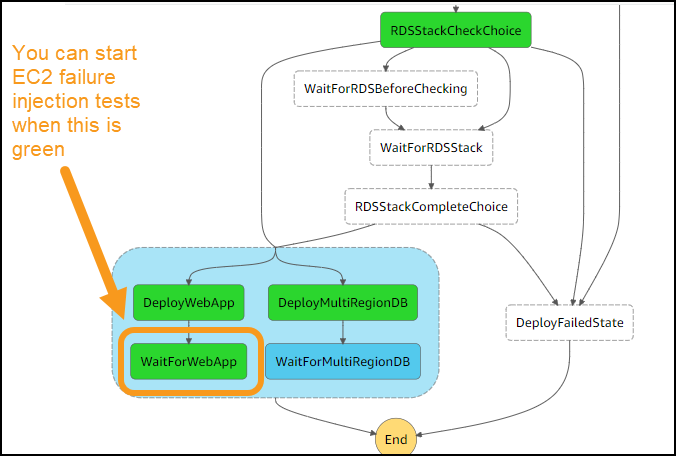
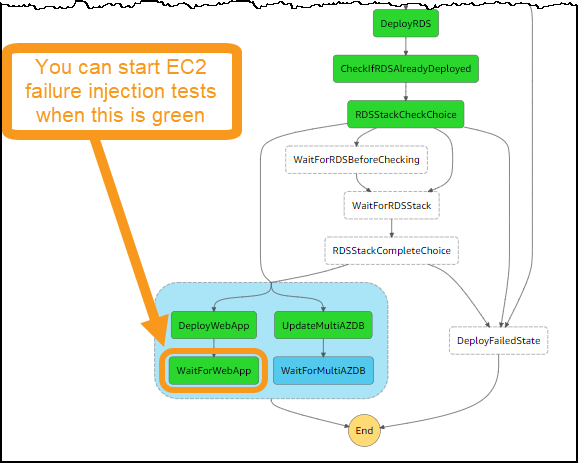
Rel300 defer multi-AZ

diff --git a/Reliability/300_Testing_for_Resiliency_of_EC2_RDS_and_S3/Code/Python/MultiAZDBLambda/update_multi_az_lambda.py b/Reliability/300_Testing_for_Resiliency_of_EC2_RDS_and_S3/Code/Python/MultiAZDBLambda/update_multi_az_lambda.py
@@ -35,7 +35,7 @@ stackname = 'MySQLforResiliencyTesting'
 
 
 def init_logging():
-    # Setup loggin because debugging with print can get ugly.
+    # Setup logging
     logger = logging.getLogger()
     logger.setLevel(logging.DEBUG)
     logging.getLogger("boto3").setLevel(logging.WARNING)
@@ -104,8 +104,8 @@ def update_rds(event):
     # Prepare the stack parameters
     rds_parameters = []
 
-    # We are no setting DBMultiRegion to update the stack
-    rds_parameters.append({'ParameterKey': 'DBMultiRegion', 'ParameterValue': "true"})
+    # We are now setting DBMultiAZ = "true" to update the stack
+    rds_parameters.append({'ParameterKey': 'DBMultiAZ', 'ParameterValue': "true"})
 
     # Every other parameter will use its previous value
     rds_parameters.append({'ParameterKey': 'DBSubnetIds', 'UsePreviousValue': True})
@@ -161,7 +161,7 @@ def wait_for_stack_complete(client, stack_name):
     if status_complete(status):
         return stack
     else:
-        logger.error ("Cannot update RDS stack to multi-region because status is: " + status)
+        logger.error ("Cannot update RDS stack to multi-AZ because status is: " + status)
         sys.exit(1)
 
 
@@ -169,11 +169,11 @@ def status_complete(status):
     return status == 'UPDATE_COMPLETE' or status == 'CREATE_COMPLETE'
 
 # This function checks the CloudFormation Parameter to determine if 
-# single or multi region RDS has been deployed.
+# single or multi AZ RDS has been deployed.
 # It may be more precise to check RDS itself, but this saves the round-trip
-def is_singleregion(region, stack_name):
+def is_single_az(region, stack_name):
     # Create CloudFormation client
-    logger.debug("Running function is_singleregion in region " + region)
+    logger.debug("Running function is_single_az in region " + region)
     client = boto3.client('cloudformation', region)
 
     # See if we can retrieve the stack
@@ -189,13 +189,13 @@ def is_singleregion(region, stack_name):
         rds_parameters = stack['Parameters']
         logger.debug("rds_parameters: \n" + str(rds_parameters))
 
-        is_multiregion = find_in_parameters(rds_parameters, 'DBMultiRegion')
+        is_multi_az = find_in_parameters(rds_parameters, 'DBMultiAZ')
 
         logger.debug("Found stack named " + stack_name)
-        logger.debug("is_multiregion: " + is_multiregion)
+        logger.debug("is_multi_az: " + is_multi_az)
 
-        # Single region is boolean opposite if multi region
-        return is_multiregion == "false"
+        # Single AZ is boolean opposite if multi AZ
+        return is_multi_az == "false"
 
     except ClientError as e:
         logger.debug("Stack will not be updated: Unexpected exception found looking for stack named " + stack_name)
@@ -204,7 +204,7 @@ def is_singleregion(region, stack_name):
 
     except Exception:
         logger.debug("Stack will not be updated: Unexpected exception found looking for stack named " + stack_name)
-        logger.debug("Stack Trace:", traceback.format_exc())
+        logger.debug("Stack Trace: " + traceback.format_exc())
         return False
 
 
@@ -231,12 +231,12 @@ def lambda_handler(event, context):
 
         rds_stack_status = event['rds']['status']
         if (status_complete(rds_stack_status)):
-            # If RDS is single-region, this update will make it multi-region
-            if is_singleregion(event['region_name'], stackname):
-                logger.debug("Stack " + stackname + " is single-region; updating to multi-region")
+            # If RDS is single-AZ, this update will make it multi-AZ
+            if is_single_az(event['region_name'], stackname):
+                logger.debug("Stack " + stackname + " is single-AZ; updating to multi-AZ")
                 return update_rds(event)
             else:
-                logger.debug("Stack " + stackname + " already multi-region")
+                logger.debug("Stack " + stackname + " already multi-AZ")
                 return_dict = {'stackname': stackname}
                 return return_dict
         else:
